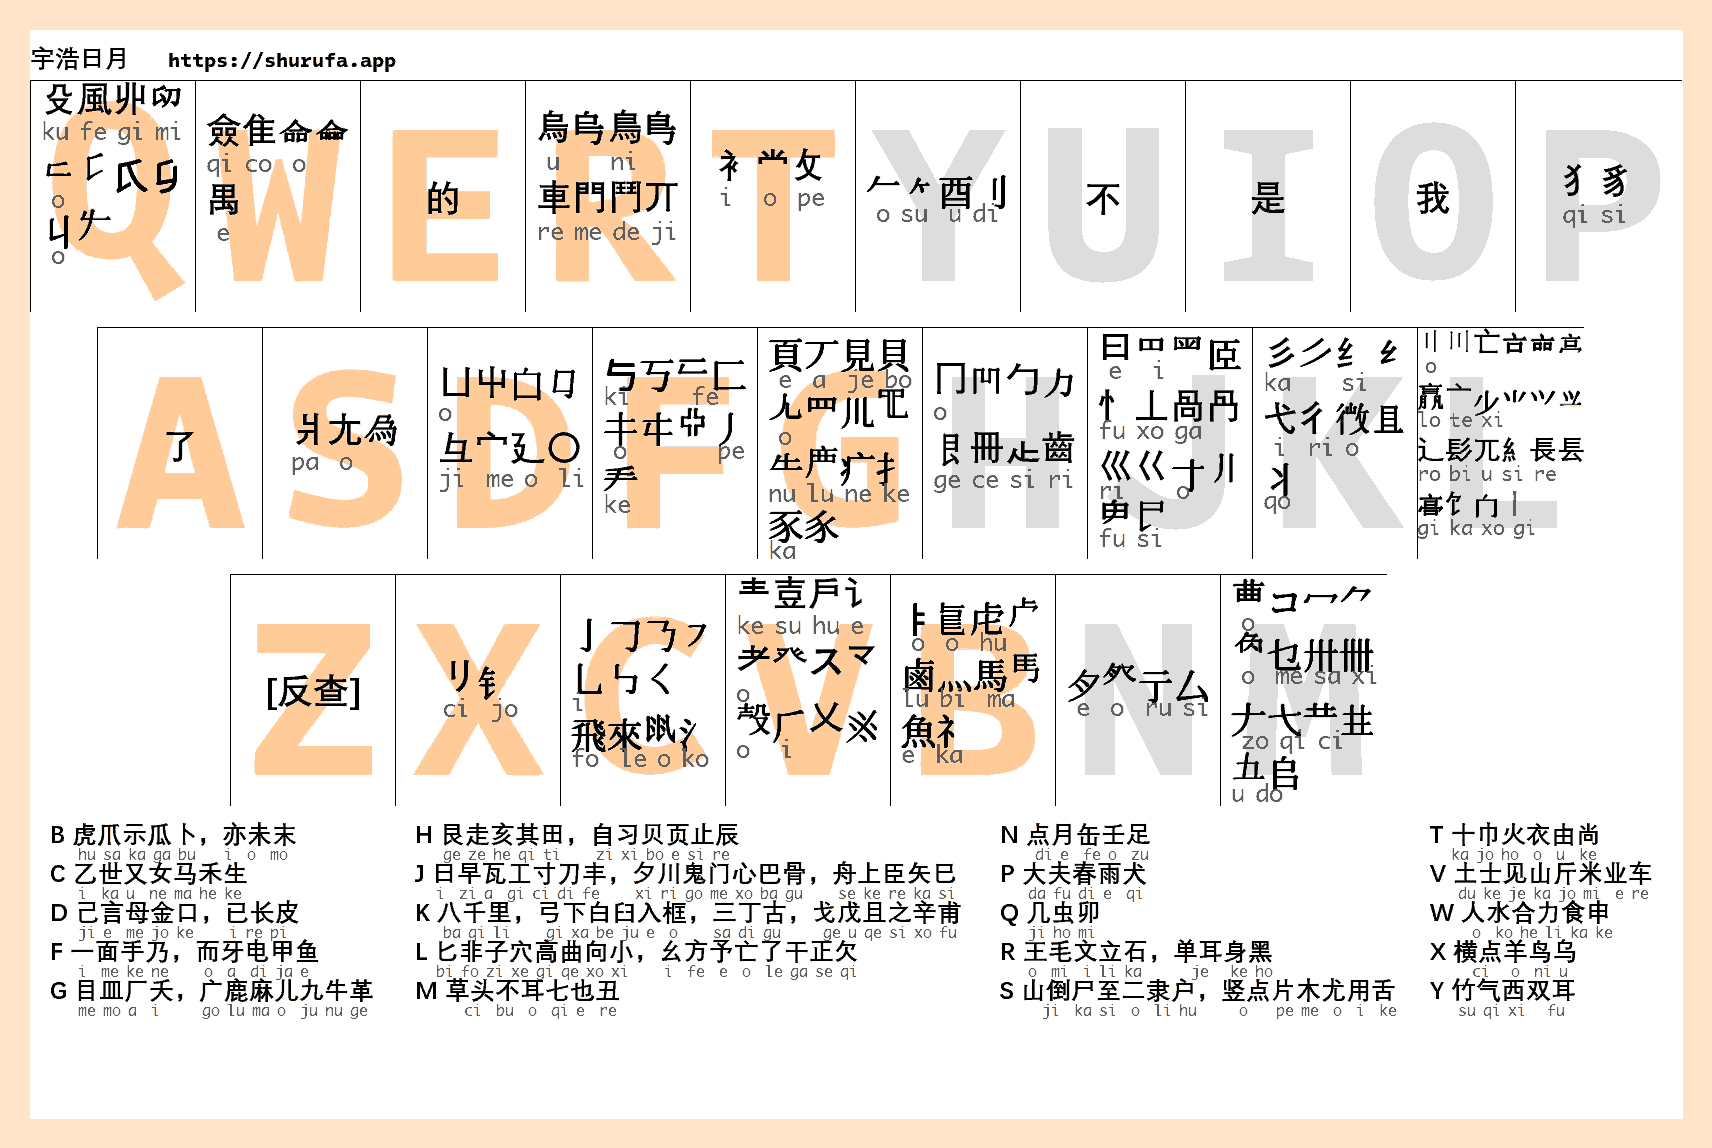
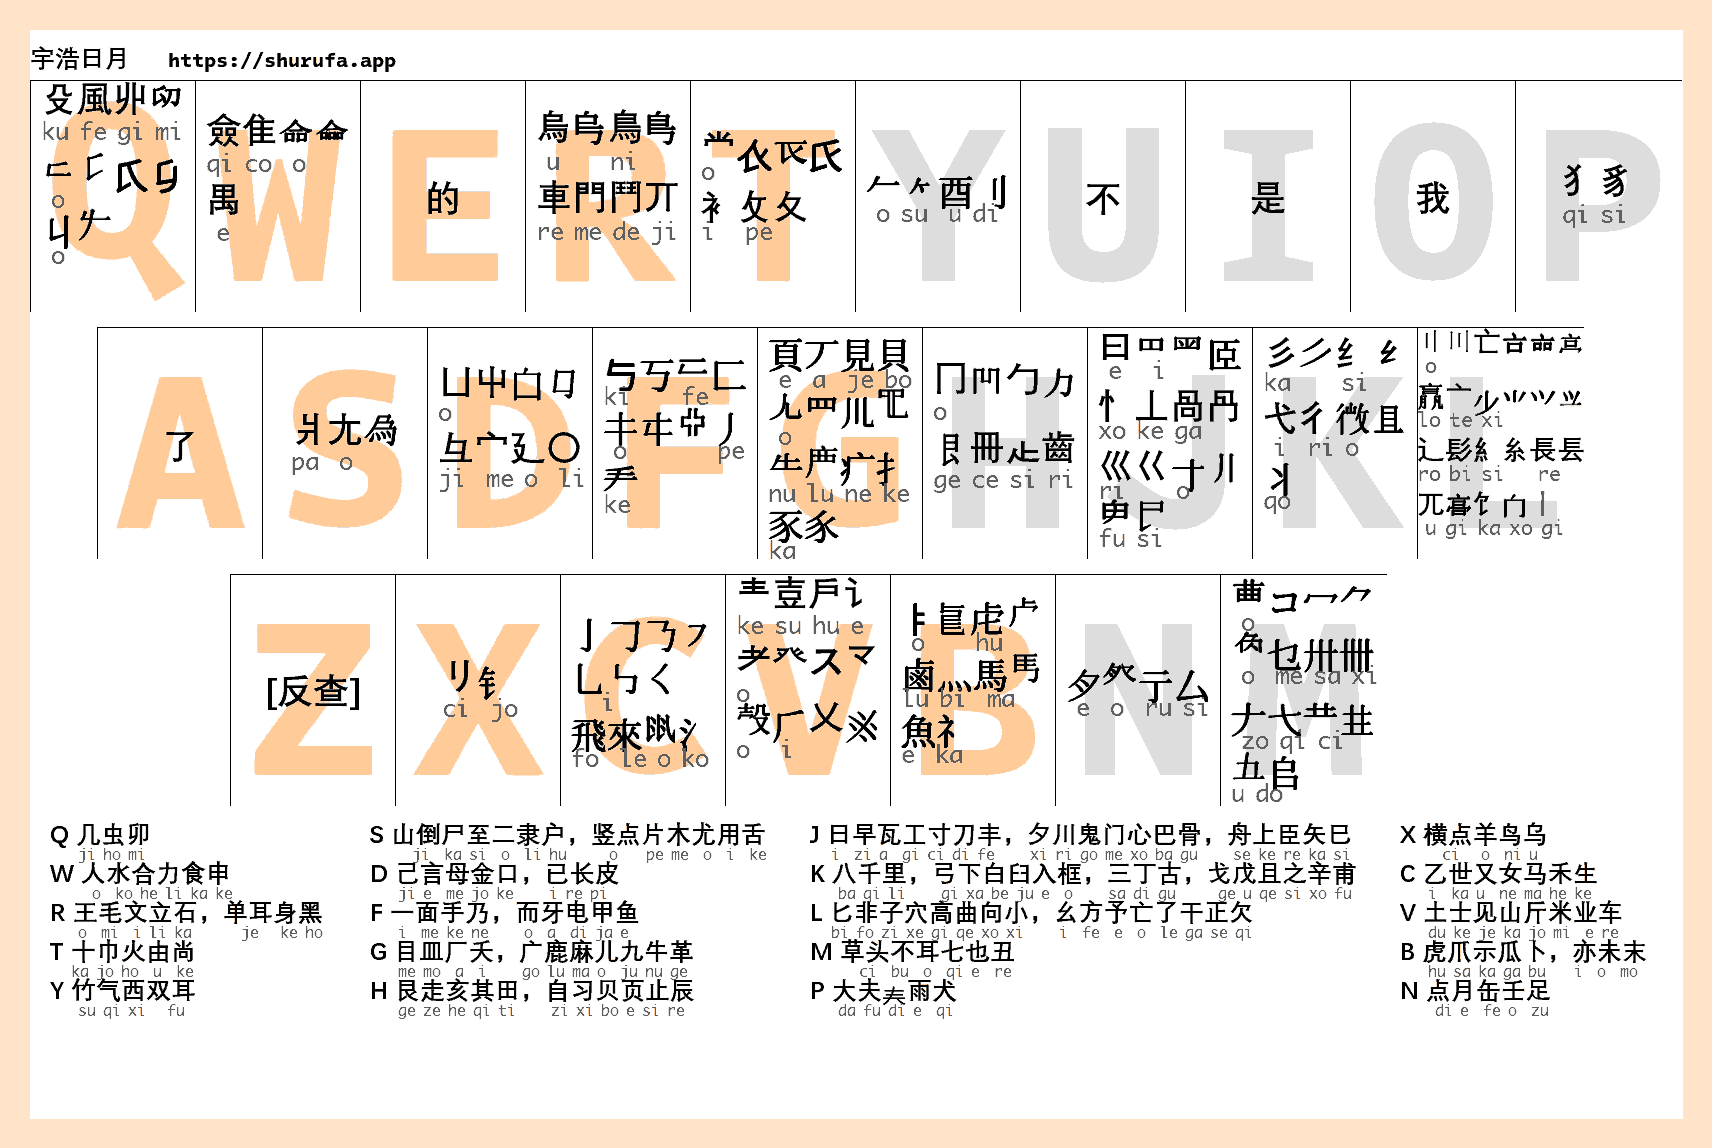
gai9

diff --git a/宇浩日月字根/字根图.py b/宇浩日月字根/字根图.py
@@ -12,20 +12,30 @@ ps = platform.system().lower()
 # 显示屏16:9，照片像素应为：1685*948pix，上下空白像素应为116
 
 mnemonic1: str = (
-    "B 虎爪示瓜卜，亦未末\n"
-    "    hu sa ka ga bu    i  o  mo\n"
-    "C 乙世又女马禾生\n"
-    "    i  ka u  ne ma he ke\n"
+    "Q 几虫卯\n"
+    "    ji ho mi\n"
+    "W 人水合力食申\n"
+    "      o  ko he li ka ke\n"
+    "R 王毛文立石，单耳身黑\n"
+    "    o  mi  i li ka       je   ke ho\n"
+    "T 十巾火由尚\n"
+    "   ka jo ho  u  ke\n"
+    "Y 竹气西双耳\n"
+    "    su qi xi   fu"
+)
+mnemonic2: str = (
+    "S 山倒尸至二隶户，竖点片木尤用舌\n"
+    "      ji  ka si  o  li hu      o    pe me  o  i  ke\n"
     "D 己言母金口，已长皮\n"
     "    ji e  me jo ke     i re pi\n"
     "F 一面手乃，而牙电甲鱼\n"
     "    i  me ke ne     o  a  di ja e\n"
     "G 目皿厂夭，广鹿麻儿九牛革\n"
-    "    me mo a  i      go lu ma o  ju nu ge"
-)
-mnemonic2: str = (
+    "    me mo  a  i     go lu ma o  ju nu ge\n"
     "H 艮走亥其田，自习贝页止辰\n"
-    "    ge ze he qi ti     zi xi bo e si re\n"
+    "    ge ze he qi ti     zi xi bo e si re"
+)
+mnemonic3: str = (
     "J 日早瓦工寸刀丰，夕川鬼门心巴骨，舟上臣矢巳\n"
     "   i  zi a  gi ci di fe     xi ri go me xo ba gu     se ke re ka si\n"
     "K 八千里，弓下白臼入框，三丁古，戈戊且之辛甫\n"
@@ -33,32 +43,21 @@ mnemonic2: str = (
     "L 匕非子穴高曲向小，幺方予亡了干正欠\n"
     "   bi fo zi xe gi qe xo xi     i  fe  e  o  le ga se qi\n"
     "M 草头不耳七也丑\n"
-    "       ci  bu  o  qi e  re"
-)
-
-mnemonic3: str = (
-    "N 点月缶壬足\n"
-    "     di e  fe o  zu\n"
-    "P 大夫春雨犬\n"
-    "    da fu di e  qi\n"
-    "Q 几虫卯\n"
-    "    ji ho mi\n"
-    "R 王毛文立石，单耳身黑\n"
-    "    o  mi  i li ka       je   ke ho\n"
-    "S 山倒尸至二隶户，竖点片木尤用舌\n"
-    "      ji  ka si  o  li hu      o    pe me  o  i  ke"
+    "       ci  bu  o  qi e  re\n"
+    "P 大夫𡗗雨犬\n"
+    "    da fu di e  qi"
 )
 mnemonic4: str = (
-    "T 十巾火衣由尚\n"
-    "   ka jo ho  o  u  ke\n"
-    "V 土士见山斤米业车\n"
-    "    du ke je ka jo mi  e re\n"
-    "W 人水合力食申\n"
-    "      o  ko he li ka ke\n"
     "X 横点羊鸟乌\n"
     "      ci   o  ni u\n"
-    "Y 竹气西双耳\n"
-    "    su qi xi   fu"
+    "C 乙世又女马禾生\n"
+    "    i  ka u  ne ma he ke\n"
+    "V 土士见山斤米业车\n"
+    "    du ke je ka jo mi  e re\n"
+    "B 虎爪示瓜卜，亦未末\n"
+    "    hu sa ka ga bu    i  o  mo\n"
+    "N 点月缶壬足\n"
+    "     di e  fe o  zu"
 )
 
 m_font = "字根图字体/Dengb.ttf"
@@ -74,6 +73,8 @@ class Handle:
     def get_font_for_char(self, char):
         if char in "abcdefghijklmnopqrstuvwxyz":
             return ImageFont.truetype(font=a_font, size=a_size)
+        elif char in {"𡗗"}:
+            return ImageFont.truetype(font="字根图字体/PlangothicP1-Regular.ttf", size=(a_size + 10))
         else:
             return ImageFont.truetype(font=m_font, size=m_size)  # 等线，粗
 
@@ -155,9 +156,9 @@ class Handle:
 
         # 加口诀
         self.drawmne(n_x=50, n_y=n_y, draw=draw, mnemonic=mnemonic1)
-        self.drawmne(n_x=415, n_y=n_y, draw=draw, mnemonic=mnemonic2)
-        self.drawmne(n_x=1000, n_y=n_y, draw=draw, mnemonic=mnemonic3)
-        self.drawmne(n_x=1430, n_y=n_y, draw=draw, mnemonic=mnemonic4)
+        self.drawmne(n_x=370, n_y=n_y, draw=draw, mnemonic=mnemonic2)
+        self.drawmne(n_x=810, n_y=n_y, draw=draw, mnemonic=mnemonic3)
+        self.drawmne(n_x=1400, n_y=n_y, draw=draw, mnemonic=mnemonic4)
 
         # 保存
         palette_img = Image.new("P", (1, 1))  # 调色板

diff --git a/宇浩日月字根/字根画单键.py b/宇浩日月字根/字根画单键.py
@@ -24,24 +24,25 @@ char_font1: Set[str] = {
     "㇉", "飛", "來", "氵", "匚", "丂", "㐄", "丿", "龵", "見", "貝",
     "頁", "丆", "疒", "⺧", "豕", "扌", "丬", "⺌", "龷", "卅", "卌",
     "𠂇", "冖", "⺈", "乜", "コ", "丶", "亍", "厶", "钅", "𠂉", "酉",
-    "刂", "罒", "丩", ""
+    "刂", "罒", "丩",
 }
 # 文津2
 char_font2: Set[str] = {
     "𠄎", "𡿨", "𫶧", "𧰨", "𬺰", "𦣞", "𣥂", "𭕄", "𠀎", "𫠠", "𠂤",
-    "𠂭", "𠂆", "𦍌", "𢆉", ""
+    "𠂭", "𠂆", "𦍌", "𢆉",
 }
-char_font3: Set[str] = {"𰁜", "𳑳", "𰀁", "𱼀", ""}  # 文津3
-char_font4: Set[str] = {"𠂎", ""}  # 遍黑1
-char_font5: Set[str] = {"ㅑ", "𘮌", "𱍸", ""}  # 遍黑2
+char_font3: Set[str] = {"𰁜", "𳑳", "𰀁", "𱼀", }  # 文津3
+char_font4: Set[str] = {"𠂎", "𧘇", }  # 遍黑1
+char_font5: Set[str] = {"ㅑ", "𘮌", "𱍸", "𘯝", }  # 遍黑2
 # 宇浩
 char_font6: Set[str] = {
     "", "", "", "", "", "", "", "", "", "",
     "", "", "", "", "", "", "", "", "", "", "",
     "", "", "", "", "", "", "", "", "", "", "",
-    "", "", "", "", "", "", "", "", "", "", ""
+    "", "", "", "", "", "", "", "", "", "", "",
+    "",
 }
-char_font7: Set[str] = {"𰀪"}  # 98V
+char_font7: Set[str] = {"𰀪", }  # 98V
 char_font8: Set[str] = {""}  # 98U
 
 back_car_orange: str = "QWERTASDFGZXCVB"
@@ -228,7 +229,7 @@ def main():
     h.draw(FontManager(size=36, a_size=24), back_car="A", text="了")
     tb: str = (
         "ㅑ𳑳虍\n"
-        " o  o  hu\n"
+        " o     hu\n"
         "鹵灬馬\n"
         "lu bi  ma\n"
         "魚礻\n"
@@ -239,7 +240,7 @@ def main():
     tc: str = (
         "亅𠃌𠄎㇇\n"
         "乚㇉𡿨\n"
-        "i\n"
+        "   i\n"
         "飛來氵\n"
         "fo  le o ko"
     )
@@ -256,7 +257,7 @@ def main():
     h.draw(FontManager(size=36, a_size=24), back_car="E", text="的")
     tf: str = (
         "𘮌丂匚\n"
-        "ki      fe\n"
+        "ki     fe\n"
         "𰀁㐄丿\n"
         " o         pe\n"
         "龵\n"
@@ -289,7 +290,7 @@ def main():
         "曰𦣞\n"
         " e   i\n\n"
         "忄丄咼冎\n"
-        "fu xo ga\n\n"
+        "xo ke ga\n\n"
         "巛巜𬺰\n"
         "ri     o\n"
         "\n"
@@ -312,10 +313,10 @@ def main():
         " o\n\n"
         "亠𣥂⺌𭕄\n"
         "lo te xi\n\n"
-        "辶髟兀糹長镸\n"
-        "ro bi u si re\n\n"
-        "饣丨\n"
-        "gi ka xo gi"
+        "辶髟糹糸長镸\n"
+        "ro bi si    re\n\n"
+        "兀饣丨\n"
+        " u gi ka xo gi"
     )
     h.draw(FontManager(size=28, a_size=20), back_car="L", text=tl)
     # -----------------
@@ -369,8 +370,10 @@ def main():
     h.draw(FontManager(size=36, a_size=24), back_car="S", text=ts)
     # -----------------
     tt: str = (
-        "衤龸攵\n"
-        "i   o  pe\n"
+        "龸𧘇𘯝\n"
+        "o\n\n"
+        "衤攵夂\n"
+        "i   pe"
     )
     h.draw(FontManager(size=36, a_size=24), back_car="T", text=tt)
     # -----------------